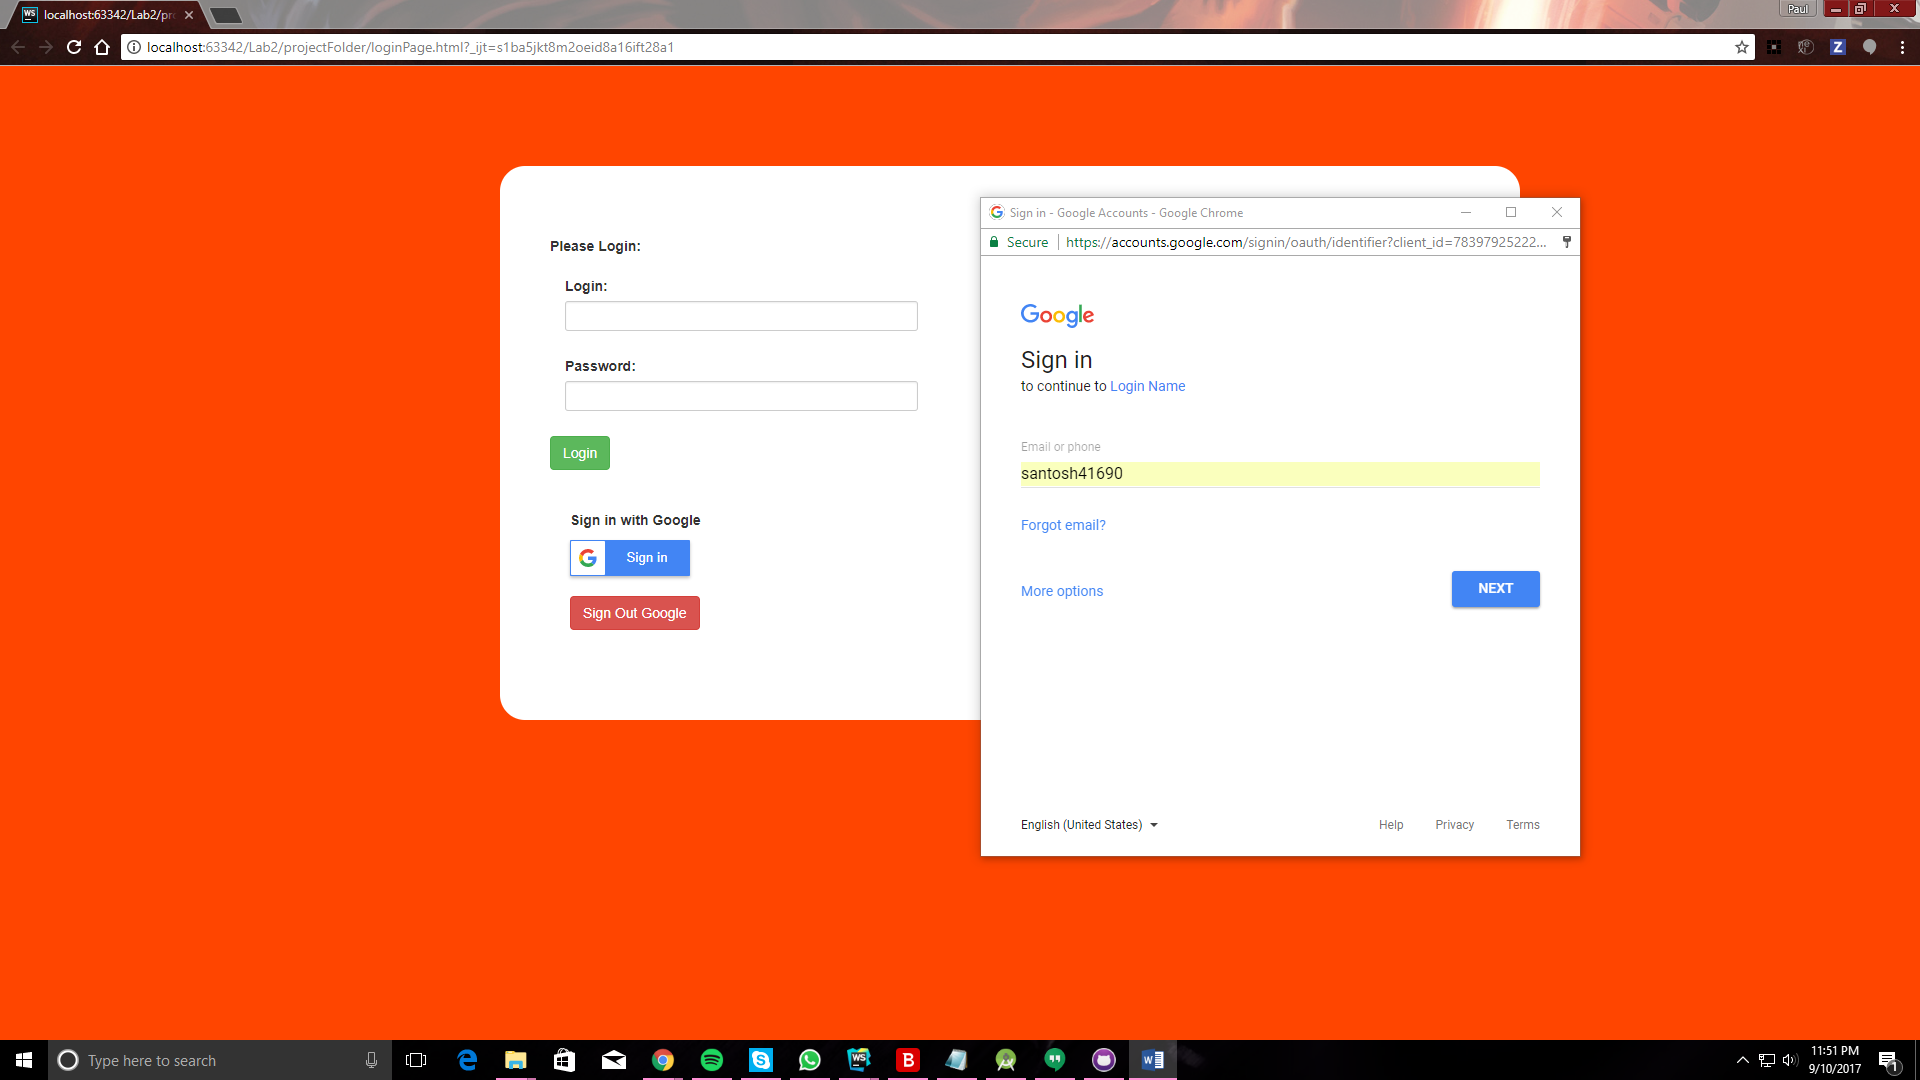
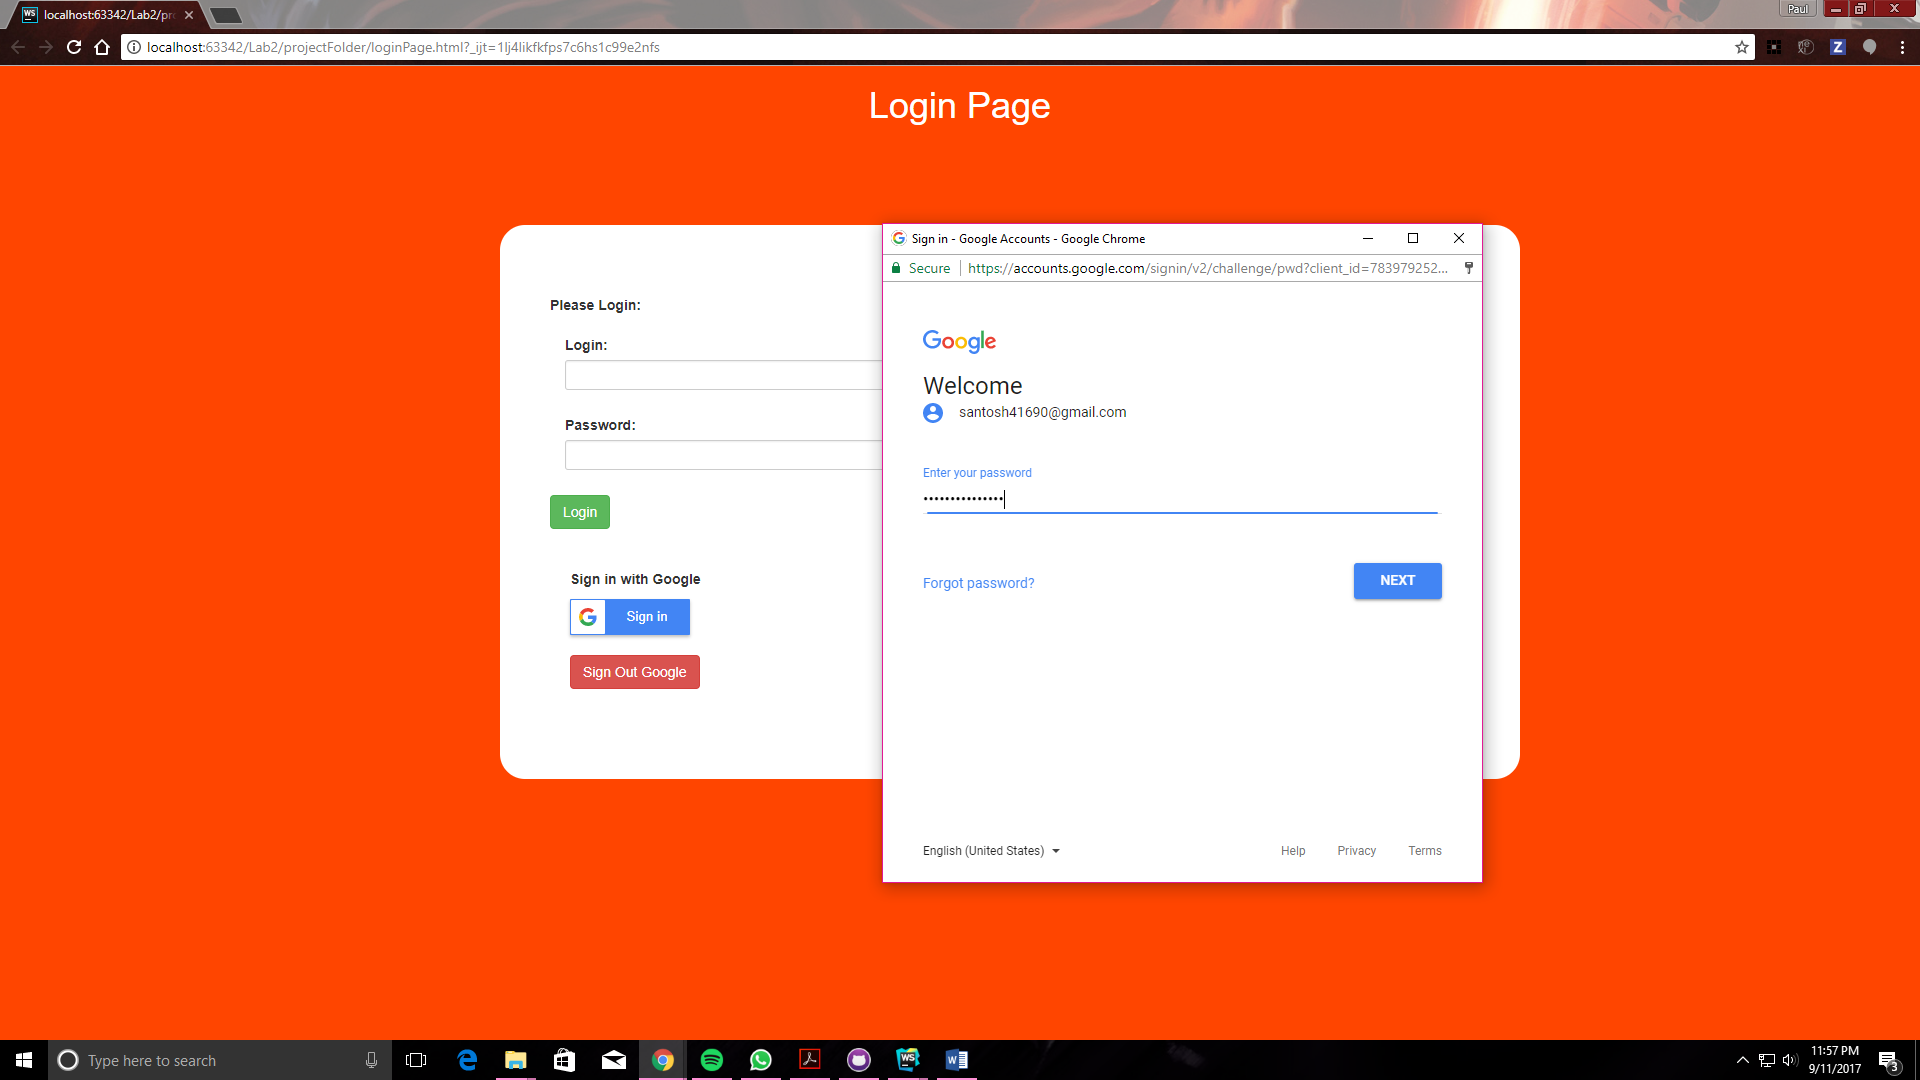
Upload new images and code

diff --git a/Lab3/Source/mashupPage.html b/Lab3/Source/mashupPage.html
@@ -14,31 +14,43 @@
     <!--Angular Libraries for Google Translate-->
     <script src="https://ajax.googleapis.com/ajax/libs/angularjs/1.6.4/angular.min.js"></script>
     <script type="text/javascript" src="//translate.google.com/translate_a/element.js?cb=googleTranslateElementInit"></script>
+    <!-- Bootstrap libraries-->
+    <link rel="stylesheet" href="https://maxcdn.bootstrapcdn.com/bootstrap/3.3.7/css/bootstrap.min.css">
+    <script src="https://ajax.googleapis.com/ajax/libs/jquery/3.2.1/jquery.min.js"></script>
+    <script src="https://maxcdn.bootstrapcdn.com/bootstrap/3.3.7/js/bootstrap.min.js"></script>
+    <!--CSS Sheet-->
     <link rel="stylesheet" type="text/css" href="generalStyles.css"/>
 </head>
 <body>
+<span class="notranslate"><h1>Mashup Page</h1></span>
+<div id="mashupForm">
 <div ng-app="myApp" ng-controller="myCtrl">
 
 
-<span class="notranslate"><p><b>Use the dropdown menu to select a language to Translate</b></p></span>
+<span class="notranslate"><p><b>Welcome to a Translation and YouTube Mashup. Please enter a word to Translate and YouTube</b></p></span>
     <!--****THIS CODE IS TAKEN AND REFERENCED FROM: https://www.w3schools.com/howto/howto_google_translate.asp-->
-<div id="google_translate_element"></div>
-    <div class="login"><span class="notranslate">Word to translate: </span><div id="displayExample">{{ user.firstName }}</div></div><br/>
-<div class="input">
-    <span class="notranslate">Enter word: </span><input id="word" ng-model="user.firstName"></input>
-    <br/><br/>
-</div>
+
+    <div class="input">
+        <span class="notranslate">Enter word: </span><input class="form-control  input-sm" id="word" ng-model="word.option"></input>
+        <br/><br/>
+    </div>
+    <div class="login"><span class="notranslate">Display translated word: </span><div id="displayExample"><b>{{ word.option }}<b></b></div></div><br/>
+    <span class="notranslate"><p><b>Use the dropdown menu to select a language to Translate</b></p></span>
+    <div id="google_translate_element"></div>
 </div>
 
-<div class="row">
-    <div class="col-md-6 col-md-offset-3">
+   <br><br>
+    <span class="notranslate"><p><b>Click the button "Search YouTube" to see the top-trending YouTube video</b></p></span>
+<div>
+    <div>
         <form action="#">
-            <span class="notranslate"><p><input type="submit" value="Search YouTube" class="form-control btn btn-primary w100"></p></span>
+            <span class="notranslate">
+          <input type="submit" value="Search YouTube" class="btn btn-danger">&nbsp&nbsp&nbsp&nbsp<img id="ytImage" src="youtube.jpg"/></span>
         </form>
         <div id="results"></div>
     </div>
 </div>
-
+</div>
 <!-- scripts -->
 <script src="https://code.jquery.com/jquery-2.1.3.min.js"></script>
 <script src="app.js"></script>

diff --git a/Lab3/Source/generalStyles.css b/Lab3/Source/generalStyles.css
@@ -14,6 +14,7 @@
     border-radius: 25px;
 }
 
+
 #googleInfo
 {
     padding: 20px;
@@ -21,7 +22,32 @@
     border-radius: 1px;
 }
 
-#loginBody
+#mashupForm
+{
+    margin-left: 500px;
+    margin-top: 50px;
+    margin-right: 400px;
+    background-color: white;
+    padding: 50px;
+    border-radius: 25px;
+    font-family: Arial;
+}
+
+body
 {
     background-color: orangered;
+}
+
+h1
+{
+    font-family: Arial;
+    font-weight: 100;
+    text-align: center;
+    color: white;
+}
+
+#ytImage
+{
+    width: 100px;
+    height: 80px;
 }

diff --git a/Lab3/Source/loginPage.html b/Lab3/Source/loginPage.html
@@ -12,6 +12,7 @@
     <link rel="stylesheet" type="text/css" href="generalStyles.css"/>
 </head>
 <body id="loginBody">
+<h1>Login Page</h1>
 <div id="loginForm">
 <br><b>Please Login:</b><br><br>
 <div class="form-group col-xs-5 ">
@@ -31,7 +32,7 @@
     <button class="btn btn-danger" onclick="signOut();">Sign Out Google</button><br><br>
 </div>
 </div>
-</div>
+
 </body>
 <script>
     //THIS CODE IS TAKEN AND REFERENCED FROM: https://developers.google.com/identity/sign-in/web/
